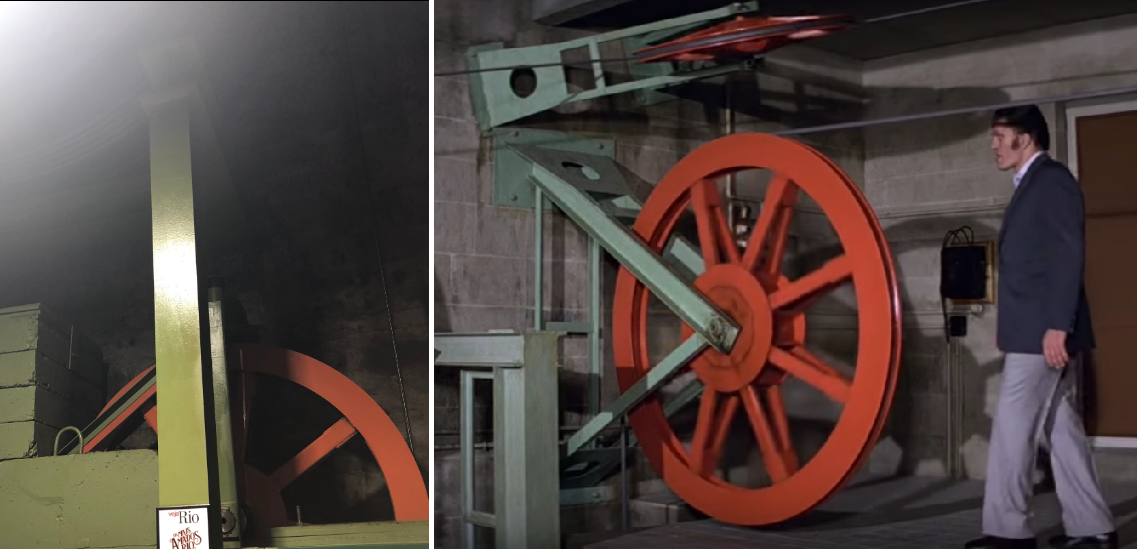
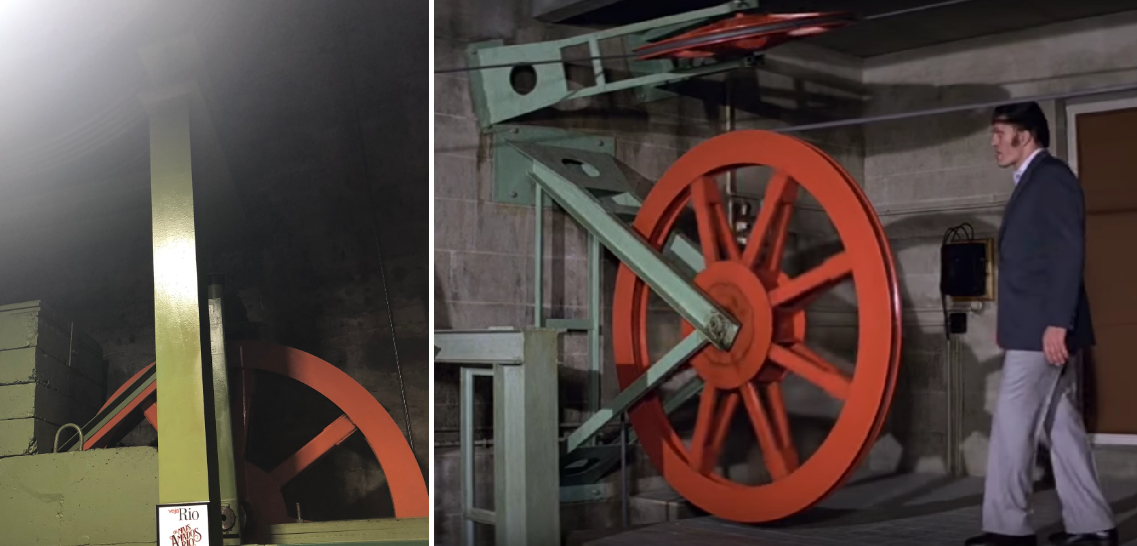
Updates

diff --git a/_posts/2020-06-23-moonraker-rio.md b/_posts/2020-06-23-moonraker-rio.md
@@ -18,23 +18,23 @@ In the film, Bond takes the cable car up to the top of the mountain in order to 
 Next, Bond meets Dr Goodhead and they decide to take the cable car back down the mountain. The cable cars have naturally been upgraded since 1979, but I was glad to see that they still have old ones on display from decades gone by. I spotted one from the film straight away!
 
 <figure>
-	<img src="/images/2020/6/cable-car.png" width="254" />
+	<img src="/images/2020/6/cable-car.png" width="250" />
 	<figcaption>Original cable car (excuse the blurry photo)</figcaption>
 </figure>
 
-<figleft>
-	<img src="/images/2020/6/sugarloaf-view.PNG" width="254" />
-	<figcaption>The view from Sugarloaf Mountain</figcaption>
-</figleft>
-
-While Bond and Dr Goodhead are on their way back down in the cable car we cut to Jaws, who has followed them to the mountain and devised another elaborate attempt on Bonds life. He uses his teeth to break the cable and stop the cable car from moving. There are a numer of the orange cable wheels similar to the one in the film within the cable car station. Looks like the colour hasn't changed over the past 40 years.
+While Bond and Dr Goodhead are on their way back down in the cable car we cut to Jaws, who has followed them to the mountain and devised another elaborate attempt on Bonds life. He uses his teeth to break the cable and stop the cable car from moving. There are a number of the orange cable wheels similar to the one in the film within the cable car station. Looks like the colour hasn't changed over the past 40 years.
 
 <center>
 	<img src="/images/2020/6/cable-car-cog.png" alt="Cable Car Cog" class="image-single" />
 	<figcaption>Jaws stops the cable car</figcaption>
 </center>
 
-Another less notable Moonraker location that I visited was Avenida Atlântica (Portuguese for Atlantic Avenue) which is the road that runs alongside the famous Copacabana Beach. Bond is driven along this road when he arrives in Rio en route to his hotel. I also drove past the grand stands that are used for the [Rio Carnival][carnival] which are briefly seen in the film when Bond and Manuela are investigating Drax's warehouse.
+Another less notable Moonraker location that I visited was Avenida Atlântica (Portuguese for Atlantic Avenue) which is the road that runs alongside the famous Copacabana Beach. Bond is driven along this road when he arrives in Rio en route to his hotel. 
+<figleft>
+	<img src="/images/2020/6/sugarloaf-view.PNG" width="250" />
+	<figcaption>The view from Sugarloaf Mountain</figcaption>
+</figleft>
+I also drove past the grand stands that are used for the [Rio Carnival][carnival] which are briefly seen in the film when Bond and Manuela are investigating Drax's warehouse.
 
 [sugar]:https://en.wikipedia.org/wiki/Sugarloaf_Mountain
 [carnival]:https://en.wikipedia.org/wiki/Rio_Carnival
